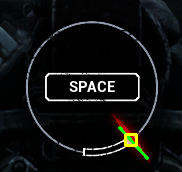
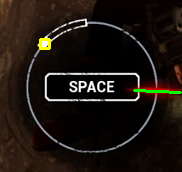
changed detection params to pick up wiggles

diff --git a/dbd/screen/rectange_detect.py b/dbd/screen/rectange_detect.py
@@ -54,11 +54,11 @@ def detect_white_box(screenshot_cv):
         #print("Area: ", area)
 
         min_area_threshold = 25  # minimum threshold for area
-        max_area_threshold = 100   # maximum threshold for area
+        max_area_threshold = 150   # maximum threshold for area
     
         if min_area_threshold < area < max_area_threshold and np.all(avg_color > 50):
             # Find bounding box coordinates
-            #print("Area 2: ", area)
+            #print("Area: ", area)
             #print("Avg color: ", avg_color)
             x, y, w, h = cv2.boundingRect(contour)
             boxes.append([x, y, w, h])

diff --git a/dbd/screen/tracking.py b/dbd/screen/tracking.py
@@ -21,11 +21,12 @@ def press_space():
 
 def track_objects(PERCENTAGE, DISTANCE_THRESHOLD=10, ANGLE_THRESHOLD=np.pi/6, LENGTH_THRESHOLD=70):
     #print("tracking objects")
+    time.sleep(5)
     lines, screenshot_cv = detect_lines(PERCENTAGE)
-
     boxes = detect_white_box(screenshot_cv)
+
     #cv2.imwrite("screenshot2.png", screenshot_cv)
-    #time.sleep(10)
+
 
     if lines is not None and boxes is not None:
         line = None
